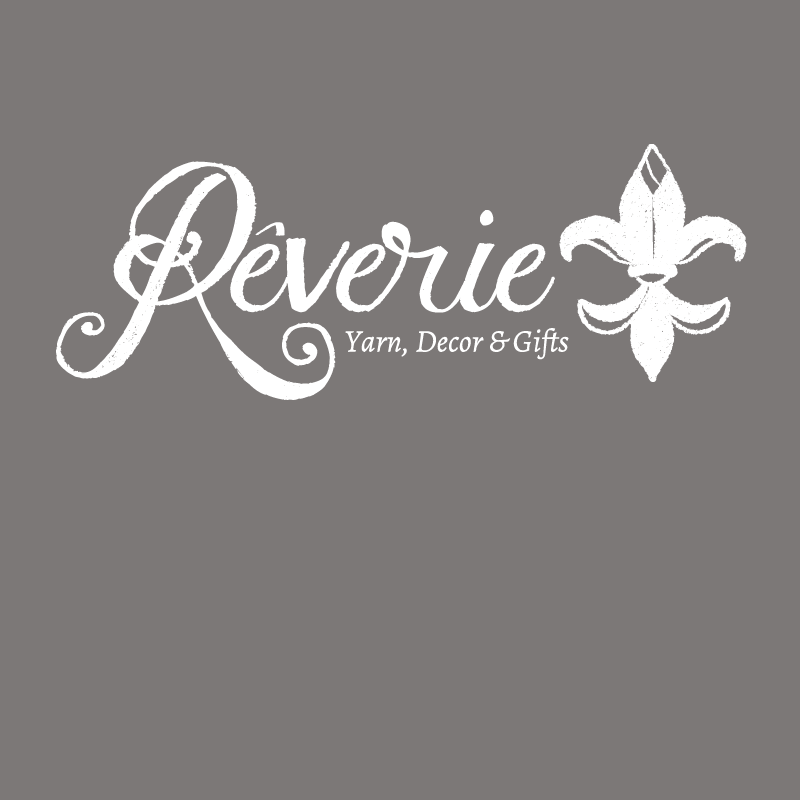
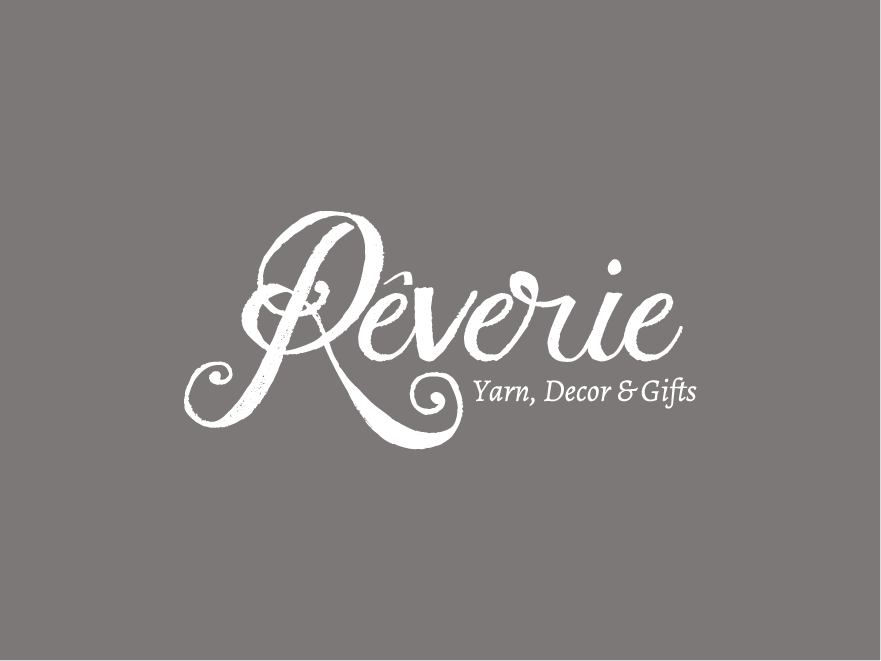
Built Home Header

Changed region(s): [[0.0625, 0.1815, 0.9375, 0.6959], [0.1875, 0.5749, 0.2188, 0.6354]]

diff --git a/wp-content/themes/reverie/style.css b/wp-content/themes/reverie/style.css
@@ -65,6 +65,19 @@ Version: 1.0.0
 }
 
 /*--------------------------------------------------------------
+# Typography
+--------------------------------------------------------------*/
+
+body {
+	font-family: 'Source Sans Pro', sans-serif;
+}
+
+h1, h2, h3, h4, h5, h6 {
+	font-family: 'Alegreya', serif;
+	font-weight: normal;
+}
+
+/*--------------------------------------------------------------
 # Universal
 --------------------------------------------------------------*/
 
@@ -88,5 +101,99 @@ img {
 }
 
 /*--------------------------------------------------------------
-# Universal
+# Header
 --------------------------------------------------------------*/
+
+/* Home Header */
+
+.home-landing {
+	background: url('img/YarnInBowl.jpg') no-repeat center;
+	background-size: cover;
+}
+
+.home-landing-overlay {
+	background-color: rgba( 50, 50, 50, .7);
+	padding: 20px 40px;
+	height: 60vh;
+}
+
+.home-landing-logo-area {
+	clear: both;
+	padding: 8em 0;
+}
+
+.home-landing-logo {
+	max-width: 400px;
+	margin: 0 auto;
+}
+
+/* Navigation */
+
+.toggle-sidebar {
+	width: 30px;
+	float: right;
+}
+
+/* The side navigation menu */
+.sidenav {
+  height: 100%;
+  width: 0;
+  position: fixed;
+  z-index: 3000;
+  top: 0;
+  right: 0;
+  background-color: #fff;
+  overflow-x: hidden;
+  padding-top: 30px;
+  transition: width 0.5s;
+  text-align: right;
+  max-width: 450px;
+	transition: all 1s;
+}
+
+#sidebar ul {
+	padding: 0;
+}
+
+/* The navigation menu links */
+#sidebar a {
+  padding: 8px;
+  text-decoration: none;
+  color: #818181;
+  display: block;
+  transition: 0.3s;
+}
+
+.sidenav li {
+  list-style: none;
+}
+
+.sidenav a:hover, .offcanvas a:focus{
+    color: #f1f1f1;
+}
+
+.closebtn {
+  position: relative;
+  top: 0;
+  right: 25px;
+  font-size: 36px !important;
+  margin-left: 50px;
+  z-index: 3000;
+  display: inline-block;
+  text-align: right;
+  color: #818181;
+}
+
+@media screen and (max-height: 450px) {
+    .sidenav {padding-top: 15px;}
+    .sidenav a {font-size: 18px;}
+}
+
+#sidebar {
+  padding: 0 20px 20px;
+  text-align: center;
+}
+
+.nav-up {
+  top: -80px;
+}

diff --git a/wp-content/themes/reverie/header-home.php b/wp-content/themes/reverie/header-home.php
@@ -1,0 +1,71 @@
+<!DOCTYPE html>
+<html lang="en">
+<head>
+	<meta http-equiv="X-UA-Compatible" content="IE=Edge">
+	<meta charset="UTF-8">
+	<title><?php wp_title(); ?></title>
+
+	<?php wp_head(); ?>
+
+	<meta name="viewport" content="width=device-width, initial-scale=1">
+    <!--[if lt IE 9]>
+      <script src="https://html5shim.googlecode.com/svn/trunk/html5.js">
+      </script>
+    <![endif]-->
+</head>
+<body>
+  <div class="home-landing">
+		<div class="home-landing-overlay">
+	    <header>
+				<div id="mySidenav" class="sidenav">
+					<a href="javascript:void(0)" class="closebtn" onclick="closeNav()">&times;</a>
+
+					<div id="sidebar">
+						<nav>
+							<div class="mobile-navigation">
+				        <h2>Menu</h2>
+				        <ul>
+				          <li><a href="">Home</a></li>
+				          <li><a href="">About Us</a></li>
+				          <li><a href="">Melissa</a></li>
+				          <li><a href="">Alpacas</a></li>
+				          <li><a href="">Classes</a></li>
+				          <li><a href="">Testimonies</a></li>
+				          <li><a href="">Products</a></li>
+				          <li><a href="">Gallery</a></li>
+				          <li><a href="">Blog</a></li>
+				          <li><a href="">Contact Us</a></li>
+				        </ul>
+							</div>
+			      </nav>
+					</div>
+
+					<script>
+						/* Set the width of the side navigation to 250px */
+						function openNav() {
+								document.getElementById("mySidenav").style.width = "100%";
+								if (screen.width > 400) {
+									// $('.sidenav').css({'border-left' : '2px solid #fbb94d', 'border-bottom' : '2px solid #fbb94d'});
+									jQuery('.sidenav').css('box-shadow', '0px 0px 30px 10px rgba(100,100,100,0.17)')
+								}
+						}
+
+						/* Set the width of the side navigation to 0 */
+						function closeNav() {
+								document.getElementById("mySidenav").style.width = "0";
+								jQuery('.sidenav').css('box-shadow', 'none');
+						}
+					</script>
+				</div>
+
+				<div onclick="openNav()" class="toggle-sidebar"><img src="<?php bloginfo( 'template_directory' ); ?>/img/hamburger-menu-white.svg"></div>
+
+			</header>
+
+			<div class="home-landing-logo-area">
+				<div class="home-landing-logo">
+					<img src="<?php bloginfo( 'template_directory' ); ?>/img/ReverieLogoWhite.svg">
+				</div>
+			</div>
+		</div>
+  </div>

diff --git a/wp-content/themes/reverie/functions.php b/wp-content/themes/reverie/functions.php
@@ -1,0 +1,38 @@
+<?php
+
+add_theme_support( 'post-thumbnails');
+
+add_theme_support( 'menus' );
+
+if( function_exists('acf_add_options_page') ) {
+
+  acf_add_options_page();
+
+}
+
+function register_theme_menus() {
+
+  register_nav_menus(
+    array(
+      'mobile-menu' => __( 'Mobile Menu' ),
+      'desktop-menu' => __( 'Desktop Menu' ),
+    )
+  );
+}
+add_action( 'init', 'register_theme_menus');
+
+function reverie_theme_styles(){
+
+  wp_enqueue_style( 'normalize', get_template_directory_uri() . '/css/normalize.css');
+  wp_enqueue_style( 'main', get_template_directory_uri() . '/style.css');
+  wp_enqueue_style( 'font', 'https://fonts.googleapis.com/css?family=Alegreya:400,700|Source+Sans+Pro:400,400i,600');
+
+}
+add_action( 'wp_enqueue_scripts', 'reverie_theme_styles' );
+
+function eh_theme_js(){
+
+}
+add_action('wp_enqueue_scripts', 'reverie_theme_js' );
+
+?>

diff --git a/wp-content/themes/reverie/page-home.php b/wp-content/themes/reverie/page-home.php
@@ -1,0 +1,5 @@
+<?php get_header( 'home' ); ?>
+
+
+
+<?php get_footer(); ?>

diff --git a/wp-content/themes/reverie/page.php b/wp-content/themes/reverie/page.php
@@ -1,0 +1,5 @@
+<?php get_header(); ?>
+
+
+
+<?php get_footer(); ?>

diff --git a/wp-content/themes/reverie/footer.php b/wp-content/themes/reverie/footer.php
@@ -1,0 +1,6 @@
+
+
+    <?php wp_footer(); ?>
+
+  </body>
+</html>
